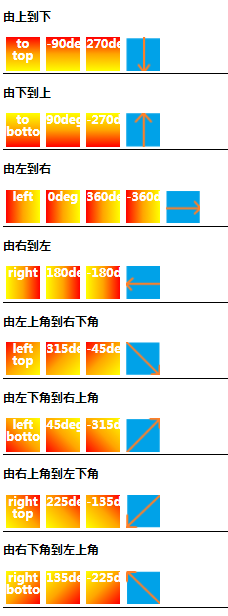
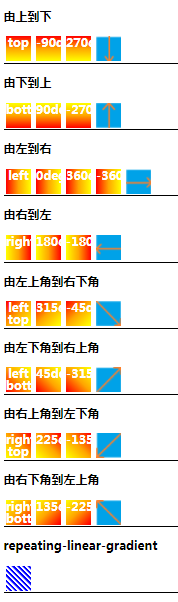
finish

diff --git a/effects/demo/css/gradient/demo1/index2.html b/effects/demo/css/gradient/demo1/index2.html
@@ -2,18 +2,18 @@
 <html lang="en">
 <head>
     <meta charset="UTF-8">
-    <title>-webkit-linear-gradient</title>
-    <link rel="stylesheet" type="text/css" href="style.css">
+    <title>linear-gradient</title>
+    <link rel="stylesheet" type="text/css" href="style2.css">
 </head>
 <body>
-<h1>-webkit-linear-gradient</h1>
+<h1>linear-gradient</h1>
 
 <div class="container">
     <h2>由上到下</h2>
     <div class="container-wrap topToBottom">
-        <div class="content one">top</div>
-        <div class="content two">-90deg</div>
-        <div class="content three">270deg</div>
+        <div class="content one">to bottom</div>
+        <div class="content two">180deg</div>
+        <div class="content three">-180deg</div>
         <img src="imgs/img--01.png">
     </div>
 </div>
@@ -21,44 +21,44 @@
 <div class="container">
     <h2>由下到上</h2>
     <div class="container-wrap bottomToTop">
-        <div class="content one">bottom</div>
-        <div class="content two">90deg</div>
-        <div class="content three">-270deg</div>
+        <div class="content one">to top</div>
+        <div class="content two">0deg</div>
+        <div class="content three">360deg</div>
+        <div class="content four">-360deg</div>
         <img src="imgs/img--02.png">
     </div>
 </div>
 <div class="container">
     <h2>由左到右</h2>
     <div class="container-wrap leftToRight">
-        <div class="content one">left</div>
-        <div class="content two">0deg</div>
-        <div class="content three">360deg</div>
-        <div class="content four">-360deg</div>
+        <div class="content one">to right</div>
+        <div class="content two">90deg</div>
+        <div class="content three">-270deg</div>
         <img src="imgs/img--03.png">
     </div>
 </div>
 <div class="container">
     <h2>由右到左</h2>
     <div class="container-wrap rightToLeft">
-        <div class="content one">right</div>
-        <div class="content two">180deg</div>
-        <div class="content three">-180deg</div>
+        <div class="content one">to left</div>
+        <div class="content two">270deg</div>
+        <div class="content three">-90deg</div>
         <img src="imgs/img--04.png">
     </div>
 </div>
 <div class="container">
     <h2>由左上角到右下角</h2>
     <div class="container-wrap ltTorb">
-        <div class="content one">left top</div>
-        <div class="content two">315deg</div>
-        <div class="content three">-45deg</div>
+        <div class="content one">to right bottom</div>
+        <div class="content two">135deg</div>
+        <div class="content three">-225deg</div>
         <img src="imgs/img--05.png">
     </div>
 </div>
 <div class="container">
     <h2>由左下角到右上角</h2>
     <div class="container-wrap lbTort">
-        <div class="content one">left bottom</div>
+        <div class="content one">to right top</div>
         <div class="content two">45deg</div>
         <div class="content three">-315deg</div>
         <img src="imgs/img--06.png">
@@ -67,7 +67,7 @@
 <div class="container">
     <h2>由右上角到左下角</h2>
     <div class="container-wrap rtTolb">
-        <div class="content one">right top</div>
+        <div class="content one">to left bottom</div>
         <div class="content two">225deg</div>
         <div class="content three">-135deg</div>
         <img src="imgs/img--07.png">
@@ -76,9 +76,9 @@
 <div class="container">
     <h2>由右下角到左上角</h2>
     <div class="container-wrap rbTolt">
-        <div class="content one">right bottom</div>
-        <div class="content two">135deg</div>
-        <div class="content three">-225deg</div>
+        <div class="content one">to left top</div>
+        <div class="content two">315deg</div>
+        <div class="content three">-45deg</div>
         <img src="imgs/img--08.png">
     </div>
 </div>

diff --git a/effects/demo/css/gradient/demo1/style2.css b/effects/demo/css/gradient/demo1/style2.css
@@ -1,0 +1,127 @@
+.container {
+    margin: 10px;
+    border-bottom: 1px solid;
+}
+.container-wrap:after {
+    content: '';
+    display: block;
+    clear: both;
+}
+.container-wrap img {
+    width: 100px;
+    height: 100px;
+    margin: 10px;
+    float: left;
+    display: block;
+}
+.content {
+    width: 100px;
+    height: 100px;
+    font: bold 18px/1 '';
+    text-align: center;
+    color: white;
+    float: left;
+    margin: 10px;
+}
+
+
+/* 由上到下 */
+.topToBottom .one{
+    background: linear-gradient(to bottom, red, orange, yellow);
+}
+.topToBottom .two{
+    background: linear-gradient(180deg, red, orange, yellow);
+}
+.topToBottom .three{
+    background: linear-gradient(-180deg, red, orange, yellow);
+}
+
+/* 由下到上 */
+
+.bottomToTop .one{
+    background: linear-gradient(to top, red, orange, yellow);
+}
+.bottomToTop .two{
+    background: linear-gradient(0deg, red, orange, yellow);
+}
+.bottomToTop .three{
+    background: linear-gradient(360deg, red, orange, yellow);
+}
+.bottomToTop .four{
+    background: linear-gradient(-360deg, red, orange, yellow);
+}
+/* 由左到右 */
+
+.leftToRight .one{
+    background: linear-gradient(to right, red, orange, yellow);
+}
+.leftToRight .two{
+    background: linear-gradient(90deg, red, orange, yellow);
+}
+.leftToRight .three{
+    background: linear-gradient(-270deg, red, orange, yellow);
+}
+
+/* 由右到左 */
+
+.rightToLeft .one{
+    background: linear-gradient(to left, red, orange, yellow);
+}
+.rightToLeft .two{
+    background: linear-gradient(270deg, red, orange, yellow);
+}
+.rightToLeft .three{
+    background: linear-gradient(-90deg, red, orange, yellow);
+}
+
+/* 由左上角到右下角 */
+
+.ltTorb .one{
+    background: linear-gradient(to right bottom, red, orange, yellow);
+}
+.ltTorb .two{
+    background: linear-gradient(135deg, red, orange, yellow);
+}
+.ltTorb .three{
+    background: linear-gradient(-225deg, red, orange, yellow);
+}
+
+/* 由左下角到右上角 */
+
+.lbTort .one{
+    background: linear-gradient(to right top, red, orange, yellow);
+}
+.lbTort .two{
+    background: linear-gradient(45deg, red, orange, yellow);
+}
+.lbTort .three{
+    background: linear-gradient(-315deg, red, orange, yellow);
+}
+
+/* 由右上角到左下角 */
+
+.rtTolb .one{
+    background: linear-gradient(to left bottom, red, orange, yellow);
+}
+.rtTolb .two{
+    background: linear-gradient(225deg, red, orange, yellow);
+}
+.rtTolb .three{
+    background: linear-gradient(-135deg, red, orange, yellow);
+}
+
+/* 由右下角到左上角 */
+
+.rbTolt .one{
+    background: linear-gradient(to left top, red, orange, yellow);
+}
+.rbTolt .two{
+    background: linear-gradient(315deg, red, orange, yellow);
+}
+.rbTolt .three{
+    background: linear-gradient(-45deg, red, orange, yellow);
+}
+
+.repeating .one{
+    background: repeating-linear-gradient(225deg, blue, blue 5px,white 10px, white 15px);
+}

diff --git a/effects/demo/css/gradient/demo1/style.css b/effects/demo/css/gradient/demo1/style.css
@@ -121,3 +121,7 @@
 .rbTolt .three{
     background: -webkit-linear-gradient(-225deg, red, orange, yellow);
 }
+
+.repeating .one{
+    background: -webkit-repeating-linear-gradient(225deg, blue, blue 5px,white 10px, white 15px);
+}

diff --git a/_posts/studynote/css/2017-11-14-css-radial-gradient.md b/_posts/studynote/css/2017-11-14-css-radial-gradient.md
@@ -1,7 +1,7 @@
 ---
 layout: post
 title: "css - linear-gradient"
-date: 2017-11-14 15:00:00 +0800 
+date: 2017-11-14 16:00:00 +0800 
 categories: 学习笔记
 tag: CSS
 ---
@@ -11,19 +11,13 @@ tag: CSS
 
 <!-- more -->
 
-## 一、线性渐变总结图
+## 一、径向渐变总结图
 
 ![gradient](/styles/images/css/gradient/gradient-02.png)
 
-## 二、浏览器兼容性
+## 二、demo
 
-> * 点击查看[兼容性](https://caniuse.com/#search=linear-gradient)
-
-![gradient](/styles/images/css/gradient/gradient-04.png)
-
-## 三、demo
-
-### 3.1 语法
+### 2.1 语法
 
 ```
 background/background-image: linear-gradient([<angle> | to <side-or-corner>], color-shop, ..., color-shop);
@@ -31,7 +25,7 @@ background/background-image: linear-gradient([<angle> | to <side-or-corner>], co
 background/background-image: repeating-linear-gradient([<angle> | to <side-or-corner>], color-shop, ..., color-shop)
 ```
 
-### 3.2 demo
+### 2.2 -webkit-linear-gradient demo
 
 > * 点击打开[demo](/effects/demo/css/gradient/demo1/index.html)，结果如下图所示：
 
